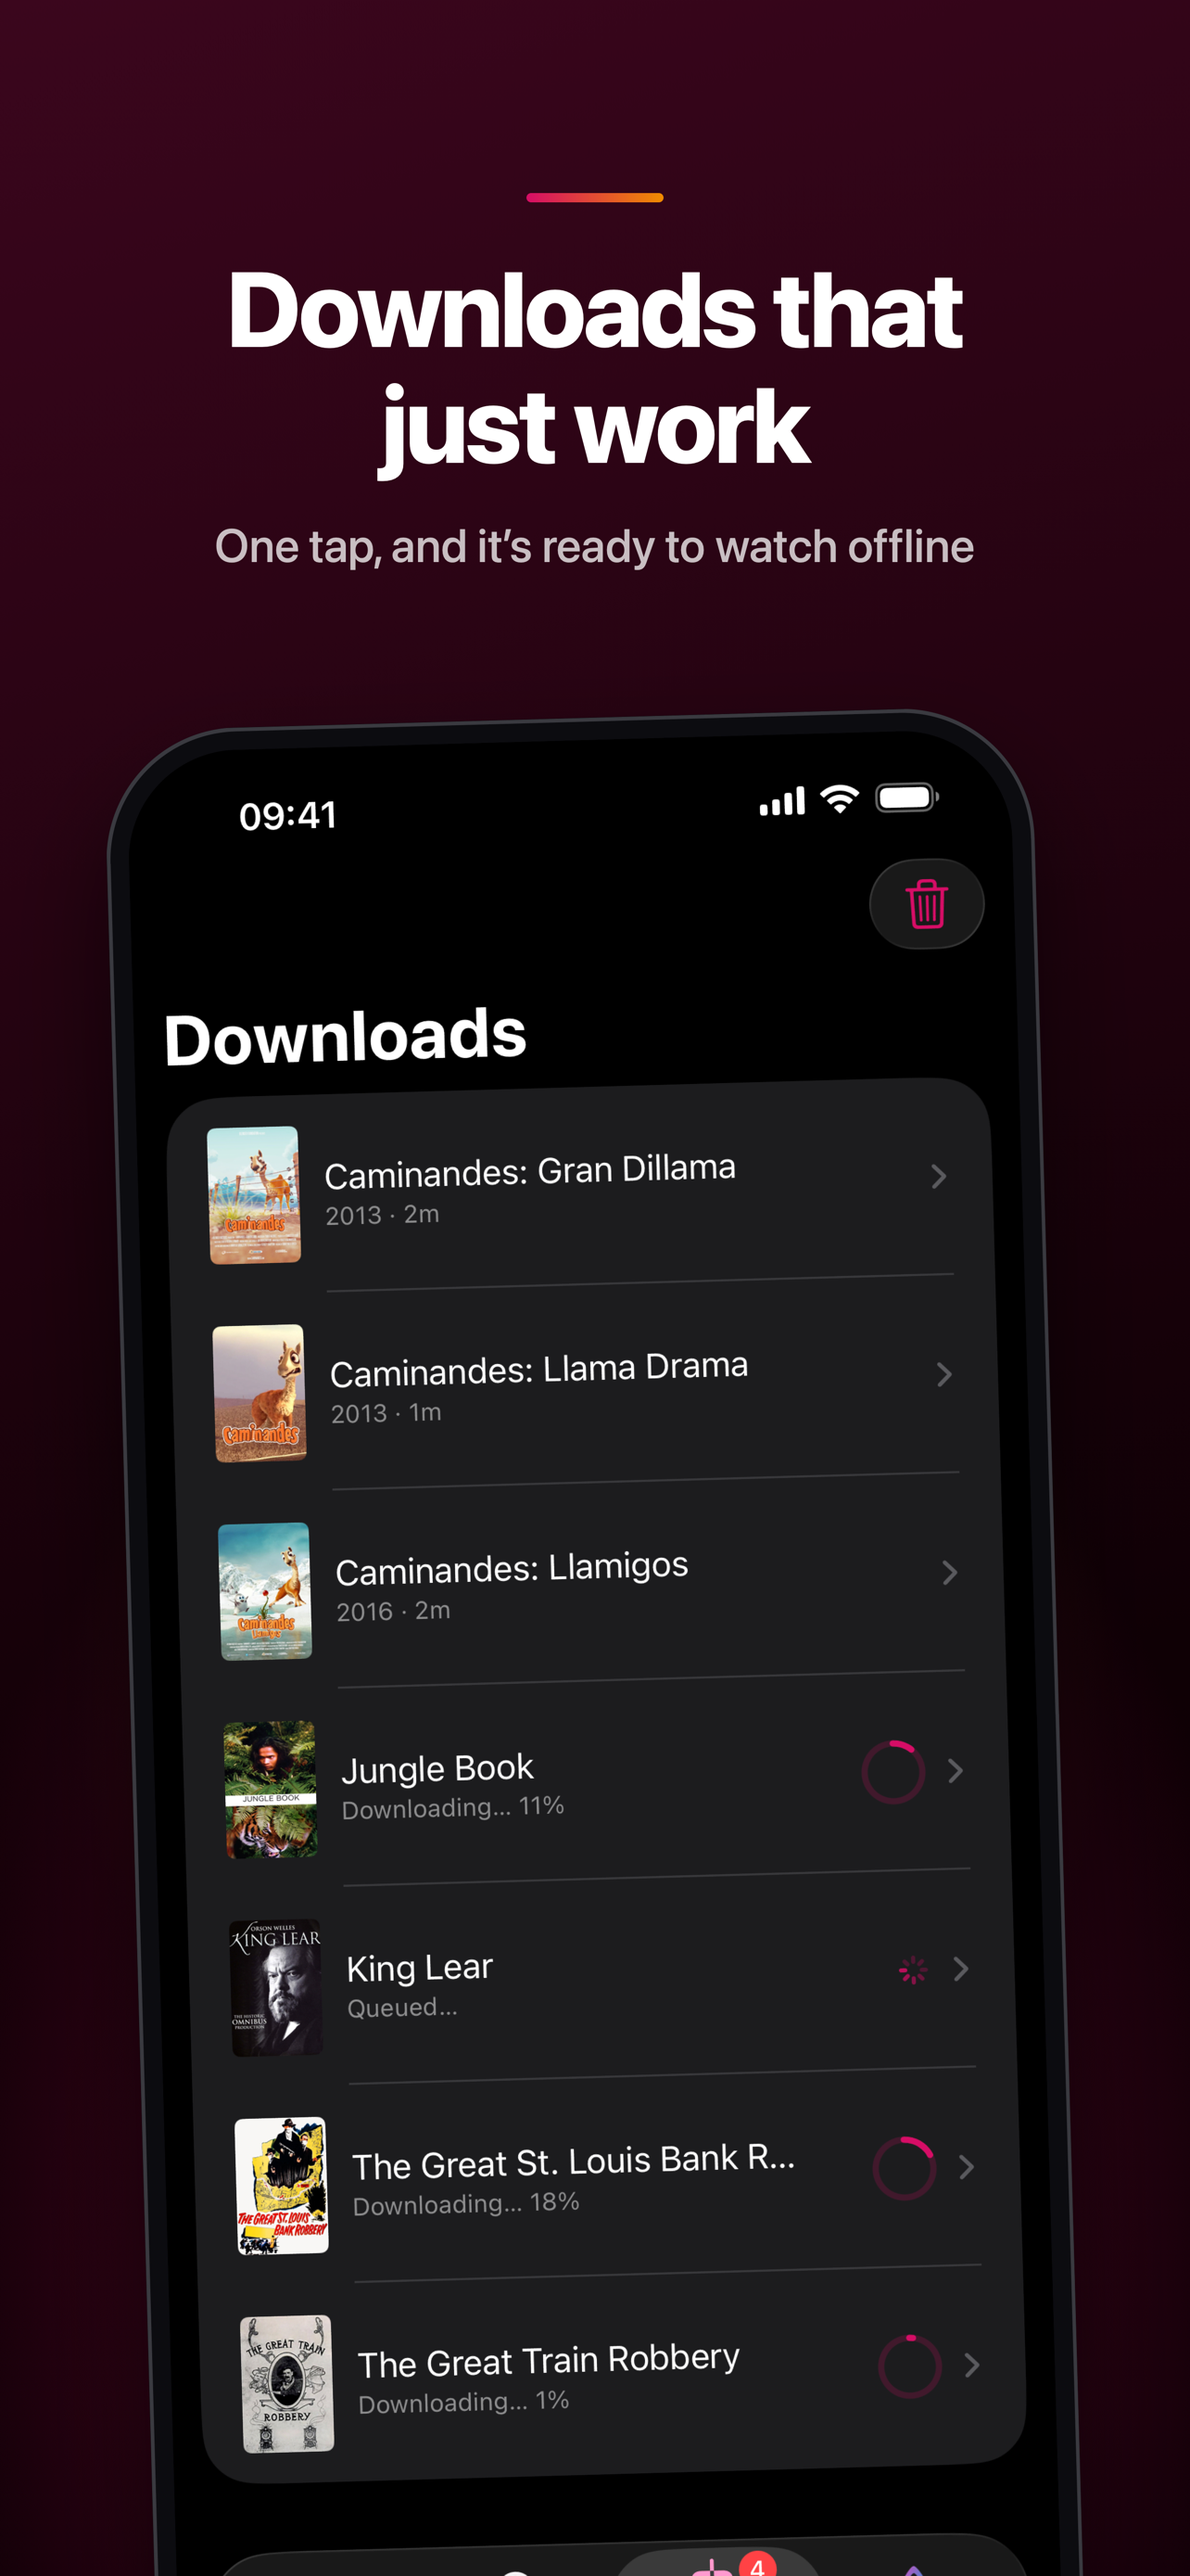
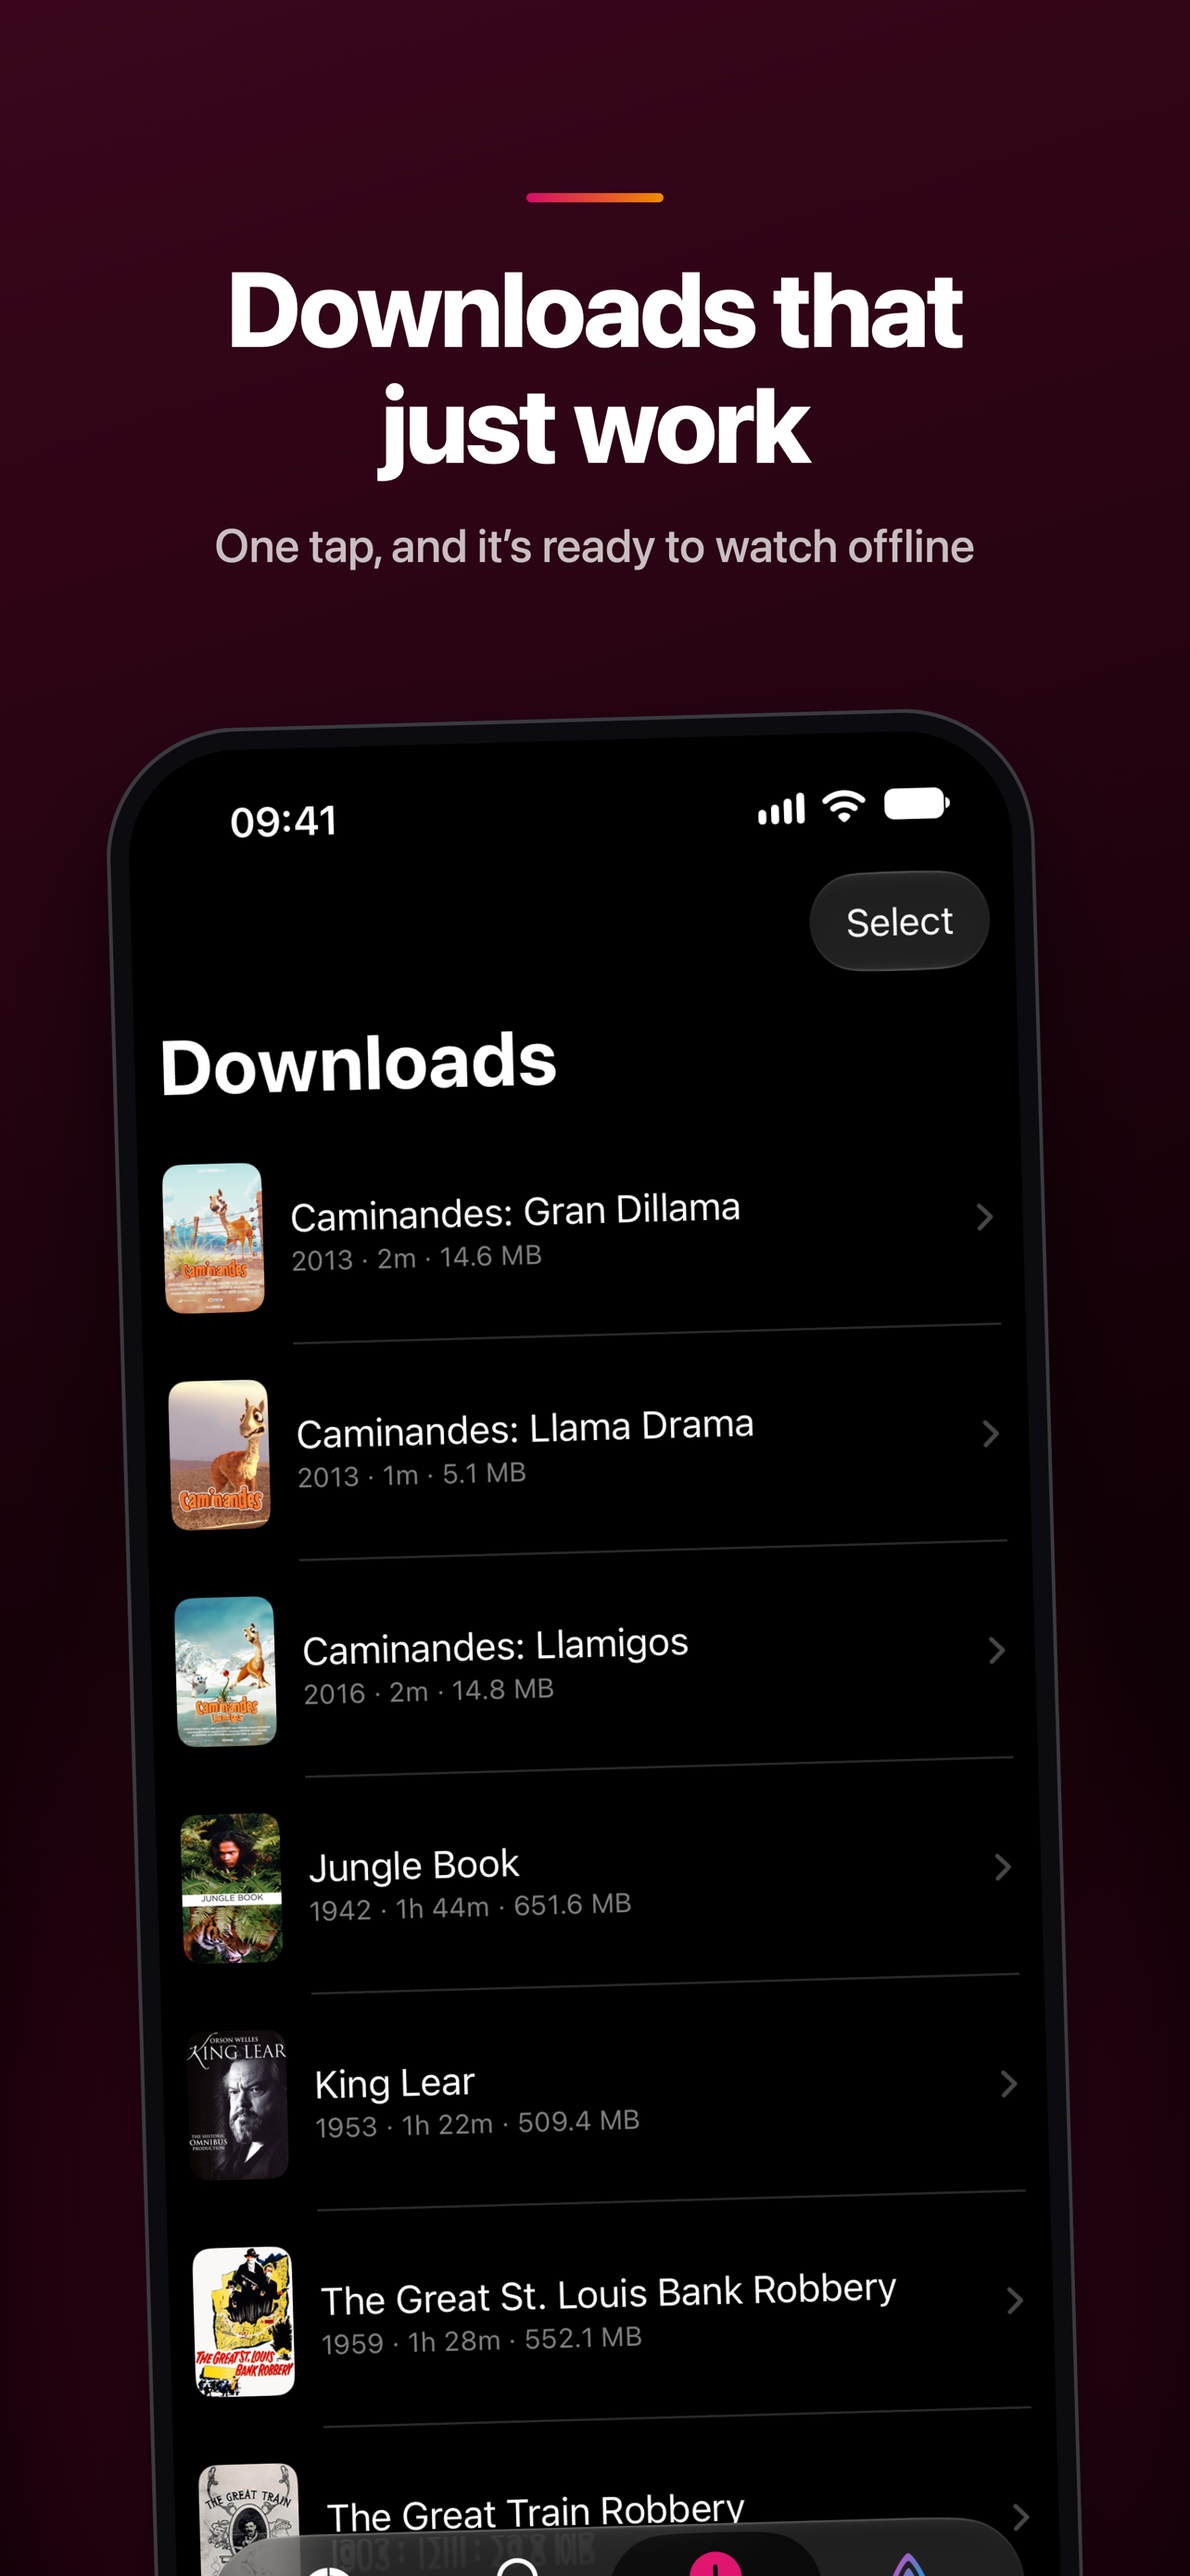
Refresh App Store screenshots for the polished Home and detail pages
Recaptured every slide on the iOS 27 Simulators (iPhone 17, iPad Pro
13-inch) against the demo server, so the sets show the design polish
pass: rounder cards, capsule buttons, rail headers with chevrons, two-line
grid titles and the iOS 27 toolbar. Copy and framing are unchanged.

README and CLAUDE.md now note that Xcode 27's Device Hub saves a
landscape screenshot upright, so the `sips -r 270` step only applies to
the older Simulator app.

diff --git a/CLAUDE.md b/CLAUDE.md
@@ -943,10 +943,12 @@ the claim. Don't invent HDR-looking source video to fake it.
 
 **`xcrun simctl` has no orientation control.** The player slide needs a
 landscape capture (a portrait screenshot of the player is ~70% black
-bars). Rotate via Simulator's own UI — `osascript` driving Simulator's
-Device ▸ Orientation menu works from a script — screenshot, then `sips -r
-270 <file>` to correct the PNG's rotation before handing it to the render
-step (`gen.py`'s landscape frame expects an already-upright image).
+bars). Rotate via the Simulator's own UI — `osascript` driving the
+Device ▸ Orientation menu works from a script — then screenshot.
+`gen.py`'s landscape frame expects an already-upright image: Xcode 27's
+Device Hub (`DeviceHub` process, one window showing whichever device is
+selected in its source list, so select the right one first) saves it
+upright, while the older Simulator app needed `sips -r 270 <file>`.
 
 **iOS defers a download task created while the Simulator is
 backgrounded** (same mechanism as `ios-defers-background-created-download-tasks`

diff --git a/README.md b/README.md
@@ -313,8 +313,9 @@ Producing a set is two steps:
    --time "9:41" --batteryLevel 100 ...` for a clean status bar, sign in
    against the demo server, and capture Home, the Movies grid, an asset
    detail page, the player (landscape — `xcrun simctl` has no orientation
-   flag, so rotate via Simulator's Device ▸ Orientation menu, screenshot,
-   then `sips -r 270` the PNG back to landscape), Downloads with a mix of
+   flag, so rotate via the Device ▸ Orientation menu and screenshot; with
+   Xcode 27's Device Hub the PNG comes out upright, while the older
+   Simulator app needed `sips -r 270` to put it back), Downloads with a mix of
    complete/in-progress items, and Home again in the opposite appearance.
    Name them to match `Scripts/store-screenshots/gen.py`'s `SLIDES` list
    (`01-home.png` … `06-light.png`) into `<raw>/iphone/` and `<raw>/ipad/`.
